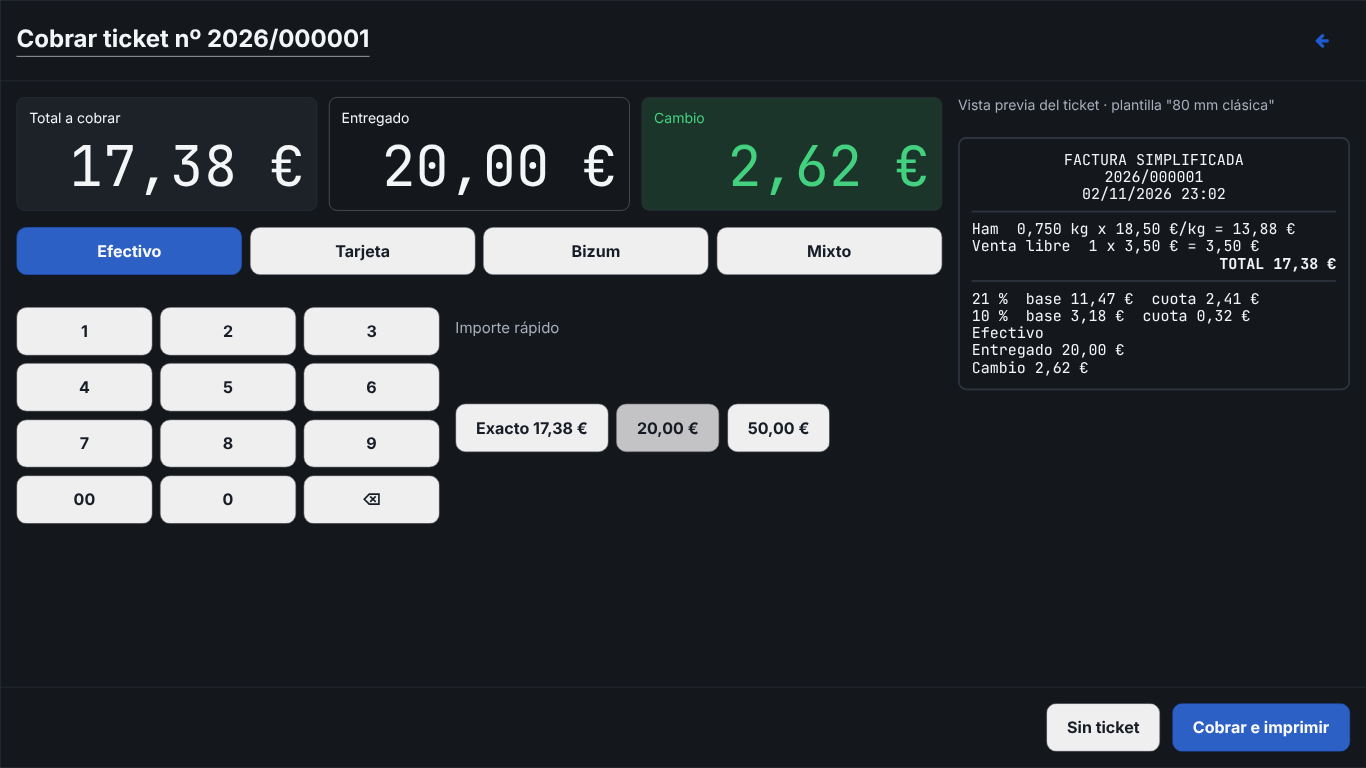
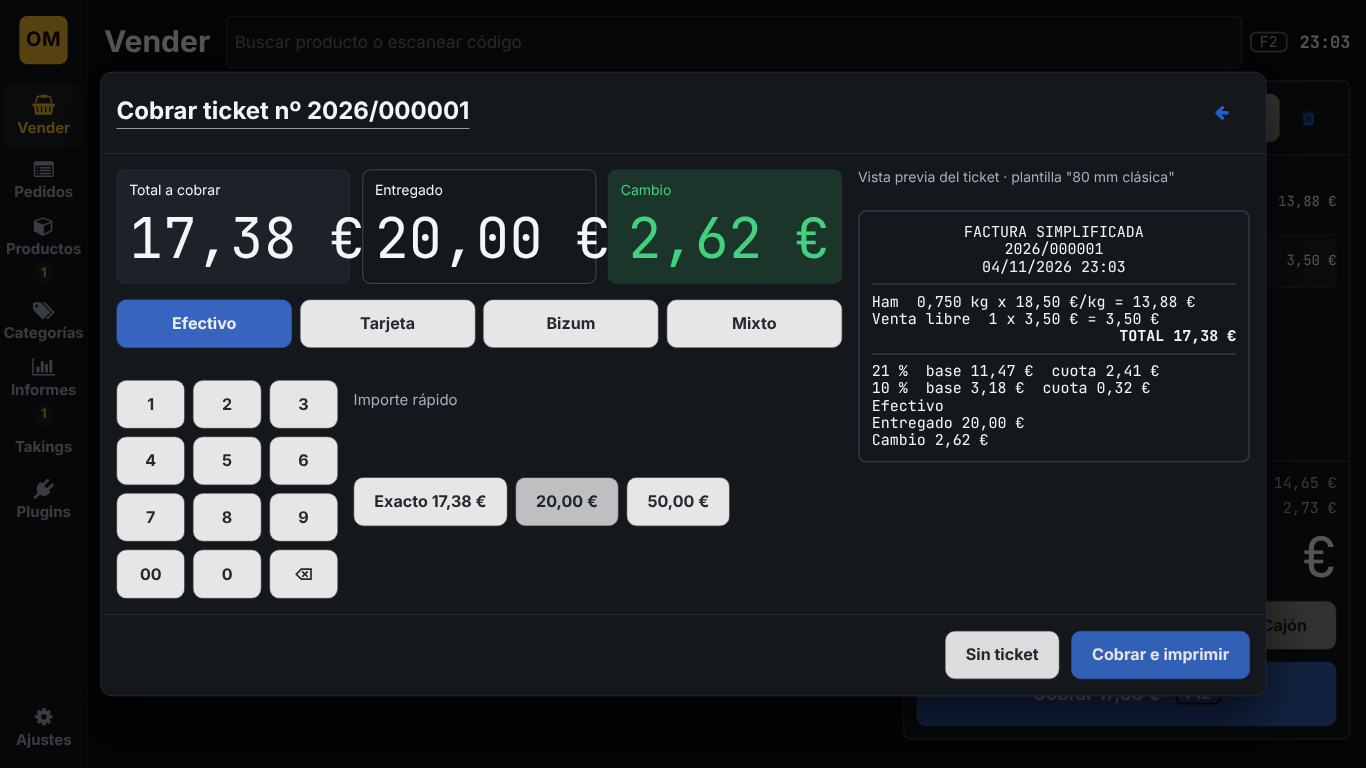
Show checkout as a modal so the nav rail stays visible.

diff --git a/src/openMarket/user_interface/order/new_order/PaymentSheet.js b/src/openMarket/user_interface/order/new_order/PaymentSheet.js
@@ -11,7 +11,7 @@ import {nextTenderCents} from './tenderCents';
 const KEYS = ['1', '2', '3', '4', '5', '6', '7', '8', '9', '00', '0', 'back'];
 
 /**
- * Full-screen checkout. Tendered cents come from the keypad.
+ * Checkout dialog. Tendered cents come from the keypad.
  */
 export default class PaymentSheet extends Component {
 
@@ -159,7 +159,6 @@ export default class PaymentSheet extends Component {
       <Dialog
         open={!!props.open}
         title={title}
-        placement="fullscreen"
         className="payment-dialog"
         closeLabel="Volver"
         closeIcon="arrow-left"

diff --git a/src/openMarket/user_interface/style/components/sell.scss b/src/openMarket/user_interface/style/components/sell.scss
@@ -566,7 +566,7 @@
 }
 
 .payment-dialog {
-  max-width: none;
+  max-width: calc(100vw - (var(--om-rail-width) * 2) - var(--om-space-6));
 }
 
 .payment-dialog .om-dialog-body {
